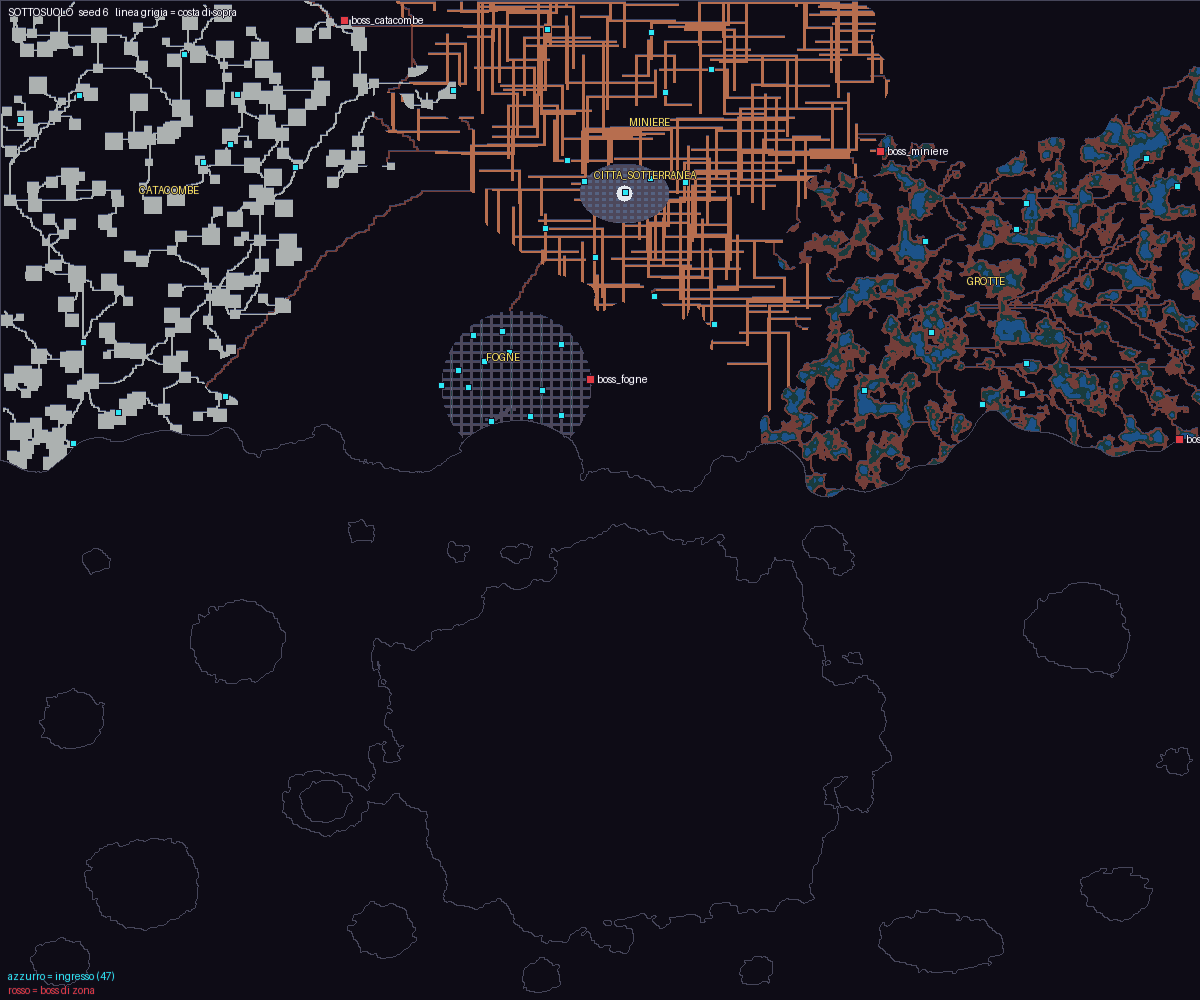
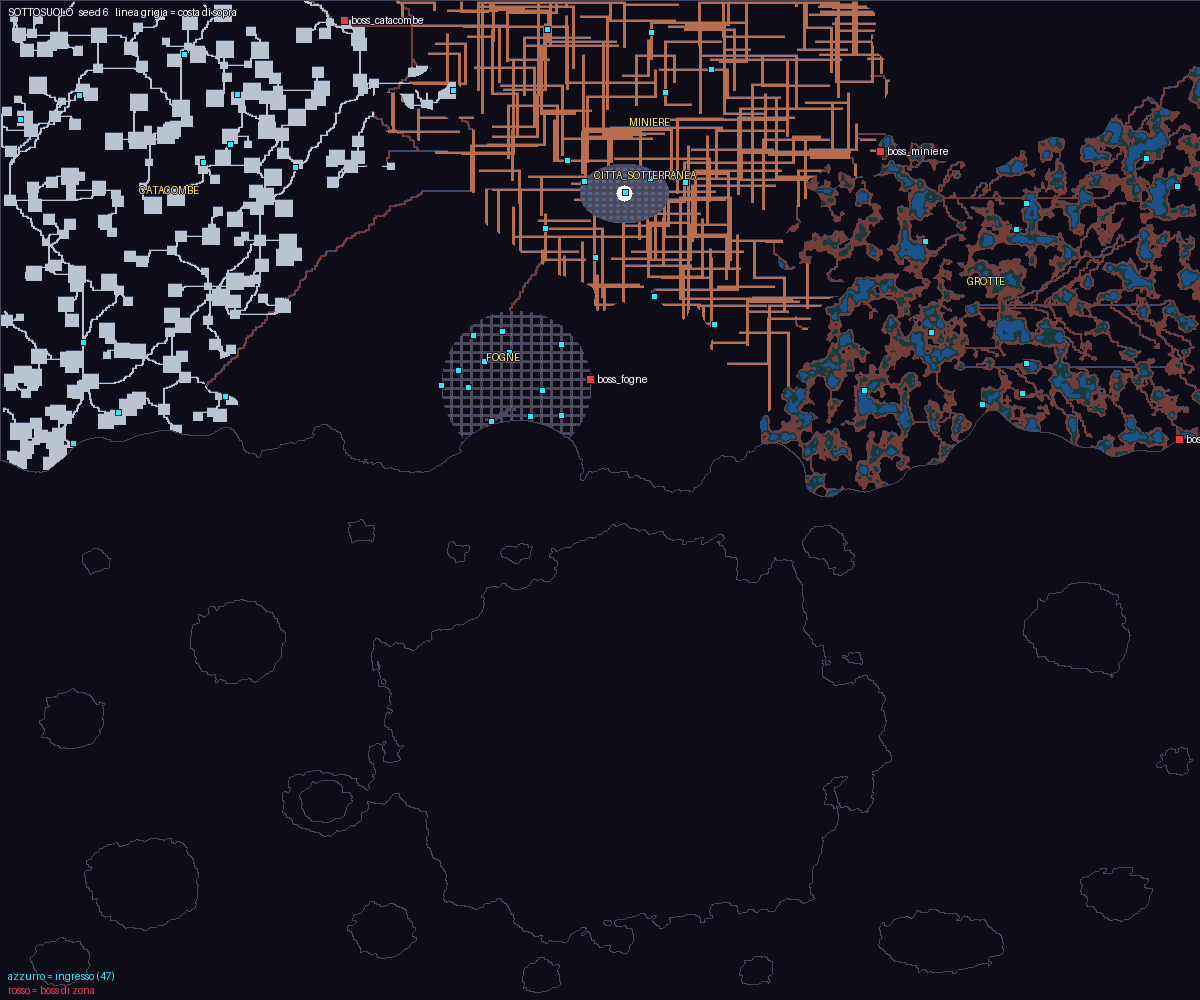
Revisione arte 3.7: varianti dei tile, lastre senza scacchiera
Claude-Session: https://claude.ai/code/session_014ycMSkFAn8ixUvbSfrqtAR

Changed region(s): [[0.0, 0.0, 0.37, 0.465]]

diff --git a/tools/art/forge3d/terrain.py b/tools/art/forge3d/terrain.py
@@ -83,11 +83,11 @@ TERRAINS = {
     "ghiaia": dict(ramp=["slate", "grey", "grey_l", "white"], period=4, dither=0.6, detail="pebbles", rim="dark", rimc="grey",
                    level=8.3, contrast=0.15),
     "marmo": dict(bordo="dritto", ramp=["grey", "grey_l", "white", "white"], period=4, dither=0.3, detail="slabs", slab=(2, 2), rim="dark",
-                  rimc="slate", level=8.4, contrast=0.4),
+                  rimc="slate", level=8.4, contrast=0.4, varianti=8, fuga="grey"),
     "ciottoli_scuri": dict(bordo="dritto", ramp=["brown_dd", "slate_d", "slate", "grey"], period=4, dither=0.4, detail="cobbles", cells=12,
                            rim="dark", rimc="brown_dd", level=8.6),
     "lastre_chiare": dict(bordo="dritto", ramp=["grey", "grey_l", "cream", "cream"], period=4, dither=0.4, detail="slabs", slab=(2, 2),
-                          rim="dark", rimc="slate", level=8.8, contrast=0.5),
+                          rim="dark", rimc="slate", level=8.8, contrast=0.5, varianti=8, fuga="grey"),
     "molo_pietra": dict(bordo="dritto", ramp=["navy", "slate_d", "slate", "grey"], period=4, dither=0.4, detail="slabs", rim="cliff",
                         rimc="navy", level=9.2, contrast=0.5),
     "pontile_legno": dict(bordo="dritto", ramp=["brown_dd", "brown_d", "brown", "tan"], period=4, dither=0.3, detail="planks", rim="dark",
@@ -108,7 +108,8 @@ TERRAINS = {
     "terra_rosa": dict(ramp=["#c99a9a", "#ddb3b0", "#e8c6c1", "#f3dcd6"], period=4, dither=0.6, detail="pebbles", rim="dark",
                        rimc="#c99a9a", level=8.25, contrast=0.3),
     "lastre_rovine": dict(ramp=["teal_d", "grey", "grey_l", "cream"], period=4, dither=0.4, detail="slabs", slab=(2, 2),
-                          rim="cliff", rimc="teal_d", level=8.9, contrast=0.5),
+                          rim="cliff", rimc="teal_d", level=8.9, contrast=0.5, varianti=8, erba=0.35, fuga="slate",
+                          accent=["green_d", "green_m"], mancanti=0.08, buca=["brown_dd", "brown_d"]),
     "roccia_lavica": dict(ramp=["ink", "brown_dd", "brown_dd", "slate_d"], period=4, dither=0.4, detail="embers", rim="cliff",
                           rimc="ink", level=9.1, accent=["orange", "amber"]),
     "ghiaccio": dict(ramp=["slate", "grey", "grey_l", "grey_l"], period=4, dither=0.4, detail="embers", cells=4, spessore=0.6,
@@ -163,7 +164,55 @@ def _accent(d, i=0):
     return _rgb(acc[min(i, len(acc) - 1)])
 
 
-def terrain_texture(name, S=TILE, seed=7, frame=0, nframes=4):
+def _lastre(d, S, rs, base):
+    """Lastre con le fughe sul bordo della casella (le varianti si accostano senza tagliare una lastra). Ogni
+    variante divide la casella a modo suo (1 lastra, 2 orizzontali, 2 verticali, 4): il pavimento non fa griglia.
+    Tono di ogni lastra a caso (quasi sempre quello centrale), ombreggiato dal rumore; fuga di un tono medio,
+    spigolo in luce in alto a sinistra, spigoli scheggiati, crepe. Campi della riga: fuga (colore), erba (frazione
+    di fughe con l'erba, colori in accent), mancanti (lastre sparite: buca di terra coi colori in buca)."""
+    ramp = d["ramp"]; n = len(ramp)
+    rng = np.random.RandomState(rs)
+    nx_, ny_ = [(1, 1), (2, 1), (1, 2), (2, 2)][rng.choice(4, p=[0.35, 0.2, 0.2, 0.25])]
+    lw, lh = S // nx_, S // ny_
+    y, x = np.mgrid[0:S, 0:S]
+    riga, col, yr, xr = y // lh, x // lw, y % lh, x % lw
+    pesi = np.array([2, 6, 2][:n - 1], float)
+    toni = rng.choice(np.arange(1, n), size=(ny_, nx_), p=pesi / pesi.sum())
+    tono = toni[riga, col] + np.where(base > 0.72, 1, 0) - np.where(base < 0.28, 1, 0)
+    img = np.array([_rgb(c) for c in ramp])[np.clip(tono, 1, n - 1)]
+    fuga = (yr == 0) | (xr == 0)
+    img[((yr == 1) | (xr == 1)) & (tono < n - 1)] = _rgb(ramp[-1])
+    s1 = max(1, S // 32)
+    scheggia = _rgb(d.get("fuga", ramp[0]))
+    for r in range(ny_):
+        for c in range(nx_):
+            y0, x0 = r * lh, c * lw
+            if rng.rand() < d.get("mancanti", 0) * nx_ * ny_ / 2:   # lastra mancante: buca di terra con sassolini
+                buca = d.get("buca", ["brown_dd", "brown_d"])
+                img[y0 + 1:y0 + lh, x0 + 1:x0 + lw] = _rgb(buca[-1])
+                for _ in range(lw * lh // 10):
+                    img[y0 + 1 + rng.randint(lh - 1), x0 + 1 + rng.randint(lw - 1)] = _rgb(buca[0])
+                continue
+            for _ in range(rng.randint(0, 3)):            # spigolo scheggiato
+                cy, cx = y0 + 1 + (lh - 2) * rng.randint(2), x0 + 1 + (lw - 2) * rng.randint(2)
+                img[max(y0, cy - s1):cy + s1, max(x0, cx - s1):cx + s1] = scheggia
+            if rng.rand() < 0.4:                          # crepa: una linea spezzata dentro la lastra
+                py, px = y0 + 2 + rng.randint(lh - 4), x0 + 2 + rng.randint(max(1, lw // 2))
+                for _ in range(rng.randint(3, 3 + lw // 3)):
+                    img[py, px] = _rgb(ramp[0])
+                    py = int(np.clip(py + rng.randint(-1, 2), y0 + 2, y0 + lh - 2))
+                    px = int(np.clip(px + 1, x0 + 2, x0 + lw - 2))
+    img[fuga] = scheggia
+    if d.get("erba"):                                     # erba nelle fughe, a ciuffi (rumore), anche oltre la fuga
+        ciuffi = pnoise(S, 4, rs + 3, 2) > 1 - d["erba"]
+        verde = ciuffi & (fuga | ((yr == 1) & (rng.rand(S, S) < 0.5)) | ((xr == 1) & (rng.rand(S, S) < 0.5)))
+        acc = d.get("accent", ["green_d", "green_m"])
+        img[verde] = _rgb(acc[0])
+        img[verde & (rng.rand(S, S) < 0.4)] = _rgb(acc[-1])
+    return img
+
+
+def terrain_texture(name, S=TILE, seed=7, frame=0, nframes=4, variante=0):
     d = TERRAINS[name]
     rs = zlib.crc32(name.encode()) % 1000 + seed   # hash() cambia a ogni avvio: non riproducibile
     base = pnoise(S, d["period"], rs, 3)
@@ -228,18 +277,22 @@ def terrain_texture(name, S=TILE, seed=7, frame=0, nframes=4):
             put(rng.randint(S), rng.randint(S), 0)
     elif detail == "slabs":
         # lastre di pietra: file sfalsate, ogni lastra un tono, fuga scura, spigolo in luce in alto a sinistra
-        lw, lh = S // d.get("slab", (2, 4))[0], S // d.get("slab", (2, 4))[1]   # (2,4) blocchi, (2,2) lastre quadrate
-        riga = y // lh
-        col = (x + (riga % 2) * (lw // 2)) // lw
-        tono = (riga * 7 + col * 5 + (riga * col) % 3 + rng.randint(3)) % (n - 1) + 1   # ogni lastra il suo tono
-        img = np.array([_rgb(c) for c in ramp])[np.minimum(tono, n - 1)]
-        xr = (x + (riga % 2) * (lw // 2)) % lw
-        img[(y % lh == 0) | (xr == 0)] = _rgb(ramp[0])
-        img[((y % lh == 1) | (xr == 1)) & ~((y % lh == 0) | (xr == 0))] = _rgb(ramp[-1])
-        for _ in range(S // 8):                                     # crepe
-            px, py = rng.randint(S), rng.randint(S)
-            for k in range(rng.randint(2, 4)):
-                put(px + k, py + (k // 2), 0)
+        nx_, ny_ = d.get("slab", (2, 4))
+        lw, lh = S // nx_, S // ny_                                  # (2,4) blocchi, (2,2) lastre quadrate
+        if d.get("varianti", 1) > 1:
+            img = _lastre(d, S, rs + 7919 * variante, base)
+        else:
+            riga = y // lh
+            col = (x + (riga % 2) * (lw // 2)) // lw
+            tono = (riga * 7 + col * 5 + (riga * col) % 3 + rng.randint(3)) % (n - 1) + 1   # ogni lastra il suo tono
+            img = np.array([_rgb(c) for c in ramp])[np.minimum(tono, n - 1)]
+            xr = (x + (riga % 2) * (lw // 2)) % lw
+            img[(y % lh == 0) | (xr == 0)] = _rgb(ramp[0])
+            img[((y % lh == 1) | (xr == 1)) & ~((y % lh == 0) | (xr == 0))] = _rgb(ramp[-1])
+            for _ in range(S // 8):                                     # crepe
+                px, py = rng.randint(S), rng.randint(S)
+                for k in range(rng.randint(2, 4)):
+                    put(px + k, py + (k // 2), 0)
     elif detail == "rows":
         # filari: solchi orizzontali, piante in fila sulla cresta (accento)
         passo = max(4, S // 4)
@@ -356,25 +409,38 @@ def build_atlas(name, S=TILE, seed=3):
     bordo="dritto" nella riga del terreno: bordi squadrati invece che sfumati (cose costruite dall'uomo)."""
     d = TERRAINS[name]
     masks = masks_dritte(S) if d.get("bordo") == "dritto" else layer_masks(S, seed)
-    nfr = d.get("anim", 1)
-    atlas = np.zeros((S * nfr, S * 16, 4), np.uint8)
-    for f in range(nfr):
-        tex = terrain_texture(name, S, frame=f, nframes=nfr)
-        for m, mask in enumerate(masks):
-            img, inner = _rim(mask, tex, d["rim"], d.get("rimc"), d["ramp"]) if d["rim"] else (tex, None)
-            tile = np.zeros((S, S, 4), np.uint8)
-            tile[..., :3] = img; tile[..., 3] = np.where(mask, 255, 0)
-            atlas[f * S:(f + 1) * S, m * S:(m + 1) * S] = tile
+    nfr, nva = d.get("anim", 1), d.get("varianti", 1)
+    atlas = np.zeros((S * nfr * nva, S * 16, 4), np.uint8)
+    for v in range(nva):                                  # riga = variante * frame totali + frame
+        for f in range(nfr):
+            tex = terrain_texture(name, S, frame=f, nframes=nfr, variante=v)
+            r0 = (v * nfr + f) * S
+            for m, mask in enumerate(masks):
+                img, inner = _rim(mask, tex, d["rim"], d.get("rimc"), d["ramp"]) if d["rim"] else (tex, None)
+                tile = np.zeros((S, S, 4), np.uint8)
+                tile[..., :3] = img; tile[..., 3] = np.where(mask, 255, 0)
+                atlas[r0:r0 + S, m * S:(m + 1) * S] = tile
     return atlas
 
 
-def compose_ground(levels, atlases=None, S=TILE, frame=0, seed=3, strati=None, duri=None):
+def variante(i, j, n):
+    """Variante del tile al vertice (i, j) del mondo (righe, colonne): un hash fisso, uguale in ogni ritaglio.
+    Il caricatore di Godot deve usare la stessa formula."""
+    if n <= 1:
+        return 0
+    h = (i * 374761393 + j * 668265263) & 0xFFFFFFFF      # hash a 32 bit: mescola tutti i bit (niente motivi)
+    h = ((h ^ (h >> 13)) * 1274126177) & 0xFFFFFFFF
+    return (h ^ (h >> 16)) % n
+
+
+def compose_ground(levels, atlases=None, S=TILE, frame=0, seed=3, strati=None, duri=None, origine=(0, 0)):
     """levels: array HxW di nomi/indici (indice in ORDER). Ritorna immagine RGBA (H*S, W*S).
     strati: HxW di interi (es. l'altezza). Dove due caselle vicine stanno su strati diversi (un dislivello)
     i terreni NON si sfumano: ogni quarto di casella che tocca un altro strato prende il terreno pieno della
     sua casella, con un bordo netto (lo copre il contorno della parete o della cima).
     duri: HxW booleani, la casella ha un bordo di roccia (materiale da parete). Il bordo netto c'e' solo se la
-    piu' alta delle due caselle e' dura: una spiaggia sul mare (piu' basso ma senza parete) resta sfumata."""
+    piu' alta delle due caselle e' dura: una spiaggia sul mare (piu' basso ma senza parete) resta sfumata.
+    origine: (x0, y0) del ritaglio nel mondo, per scegliere le varianti dei tile come nella mappa intera."""
     lv = np.asarray(levels)
     H, W = lv.shape
     if atlases is None:
@@ -383,9 +449,11 @@ def compose_ground(levels, atlases=None, S=TILE, frame=0, seed=3, strati=None, d
     canvas = np.zeros((H * S, W * S, 4), np.uint8)
     h2 = S // 2
     big = np.zeros(((H + 1) * S, (W + 1) * S, 4), np.uint8)       # canvas con mezzo tile di margine
+    oy, ox = origine[1] - 1, origine[0] - 1                       # il vertice (i, j) del pad e' (y0-1+i, x0-1+j)
     for ti, name in enumerate(ORDER):
         at = atlases[name]
-        nfr = at.shape[0] // S
+        nva = TERRAINS[name].get("varianti", 1)
+        nfr = at.shape[0] // S // nva
         fr = frame % nfr
         ge = pad >= ti
         # vertice (i,j) tra le celle pad[i..i+1, j..j+1]
@@ -399,7 +467,8 @@ def compose_ground(levels, atlases=None, S=TILE, frame=0, seed=3, strati=None, d
         ys, xs = np.nonzero(m)
         for i, j in zip(ys, xs):
             mk = m[i, j]
-            tile = at[fr * S:(fr + 1) * S, mk * S:(mk + 1) * S]
+            r0 = (variante(oy + i, ox + j, nva) * nfr + fr) * S
+            tile = at[r0:r0 + S, mk * S:(mk + 1) * S]
             blk = big[i * S:(i + 1) * S, j * S:(j + 1) * S]
             a = tile[..., 3:4] > 0
             blk[...] = np.where(a, tile, blk)
@@ -423,8 +492,10 @@ def compose_ground(levels, atlases=None, S=TILE, frame=0, seed=3, strati=None, d
                                 or netto(c, (i + 1 + dy, j + 1 + dx))):
                             continue
                         at = atlases[ORDER[lv[i, j]]]
-                        fr = frame % (at.shape[0] // S)
-                        pieno = at[fr * S:(fr + 1) * S, 15 * S:16 * S]    # tile pieno (maschera 15)
+                        nva = TERRAINS[ORDER[lv[i, j]]].get("varianti", 1)
+                        nfr = at.shape[0] // S // nva
+                        r0 = (variante(oy + i + qy, ox + j + qx, nva) * nfr + frame % nfr) * S
+                        pieno = at[r0:r0 + S, 15 * S:16 * S]    # tile pieno (maschera 15) del vertice del quarto
                         y0, x0 = i * S + qy * h2, j * S + qx * h2
                         # il tile pieno e' allineato ai vertici: nel ritaglio e' spostato di mezzo tile
                         out[y0:y0 + h2, x0:x0 + h2] = pieno[(qy * h2 + h2) % S:(qy * h2 + h2) % S + h2,

diff --git a/tools/art/forge3d/export_godot.py b/tools/art/forge3d/export_godot.py
@@ -15,11 +15,12 @@ GD_LOADER = os.path.join(HERE, "..", "..", "engines", "godot", "sprite_forge_wor
 
 def export_world(w, out_dir, S=TILE, copy_loader=True):
     os.makedirs(os.path.join(out_dir, "objects"), exist_ok=True)
-    frames = {}
-    for name in ORDER:
+    frames, varianti = {}, {}
+    for name in ORDER:                                    # righe dell'atlante: variante * frame + frame
         at = build_atlas(name, S)
         Image.fromarray(at).save(os.path.join(out_dir, f"terrain_{name}.png"))
-        frames[name] = at.shape[0] // S
+        frames[name] = TERRAINS[name].get("anim", 1)
+        varianti[name] = TERRAINS[name].get("varianti", 1)
     sprites, objs = {}, []
     for o in w.objects:
         spr = object_sprite(o, S)
@@ -33,7 +34,7 @@ def export_world(w, out_dir, S=TILE, copy_loader=True):
             sprites[key] = {"ax": ax, "ay": ay, "w": img.shape[1], "h": img.shape[0]}
         objs.append({"sprite": key, "x": round(o["x"], 3), "y": round(o["y"], 3), "type": o["type"]})
     j = w.to_json()
-    j.update({"tile": S, "terrain_frames": frames, "sprites": sprites, "objects": objs})
+    j.update({"tile": S, "terrain_frames": frames, "terrain_variants": varianti, "sprites": sprites, "objects": objs})
     j["ground"] = [[int(v) for v in row] for row in j["ground"]]
     j["roads"] = [[list(map(int, p)) for p in r] for r in j["roads"]]
     with open(os.path.join(out_dir, "world.json"), "w") as f:

diff --git a/tools/art/forge3d/worldrender.py b/tools/art/forge3d/worldrender.py
@@ -68,7 +68,7 @@ def render_world(w, region=None, S=TILE, with_objects=True, frame=0, atlases=Non
     x0, y0, x1, y1 = region or (0, 0, w.W, w.H)
     g = compose_ground(w.ground[y0:y1, x0:x1], atlases=atlases, S=S, frame=frame,
                        strati=None if strati is None else strati[y0:y1, x0:x1],
-                       duri=None if duri is None else duri[y0:y1, x0:x1])
+                       duri=None if duri is None else duri[y0:y1, x0:x1], origine=(x0, y0))
     if sopra is not None:
         a = sopra[..., 3:4].astype(float) / 255.0
         g[..., :3] = (sopra[..., :3] * a + g[..., :3] * (1 - a)).astype(np.uint8)

diff --git a/arte/revisione_arte.md b/arte/revisione_arte.md
@@ -236,11 +236,15 @@ Legenda: 🔴 alta (rovina la leggibilità o va decisa prima del Blocco C/D) ·
 - **FATTO (2026-10-14):** `bordo="dritto"` per i terreni costruiti; moli, scali e diga rialzati con la
   parete (materiali `molo` e `legno`) invece che come oggetti: hanno faccia e bordi come le altre pareti.
 
-### 🟠 3.7 Pavimenti a scacchiera
+### ✅ 3.7 Pavimenti a scacchiera — FATTO (2026-10-14)
 - **Cosa:** `lastre_rovine` e altre lastre alternano giallo e azzurro in modo regolare:
   le rovine del boss sembrano il pavimento di un bagno.
 - **Come correggere:** tono di ogni lastra dal rumore (non alternato), fughe irregolari,
   crepe, erba nelle fughe, lastre mancanti.
+- **FATTO (2026-10-14):** varianti dei tile (campo `varianti` nella riga di `terrain.py`, scelta con un hash
+  della posizione nel mondo, `terrain.variante()`); le lastre (rovine, lastre chiare, marmo) hanno 8 varianti,
+  ognuna divide la casella a modo suo (1, 2 o 4 lastre), tono a caso, fuga di tono medio, spigoli scheggiati,
+  crepe; nelle rovine erba nelle fughe. Il caricatore Godot dovrà usare la stessa formula di `variante()`.
 
 ### 🟠 3.8 Strade che finiscono nel nulla
 - **Cosa:** il lastricato si ferma al bordo della giungla (proprio all'ingresso principale
